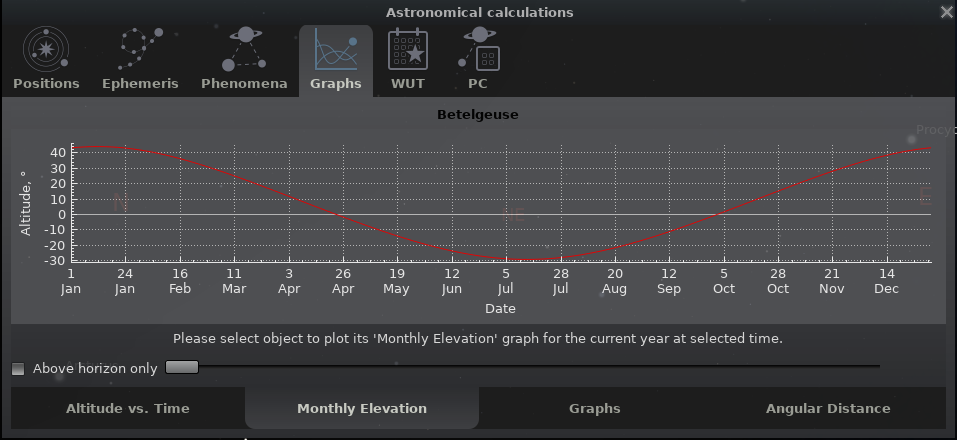
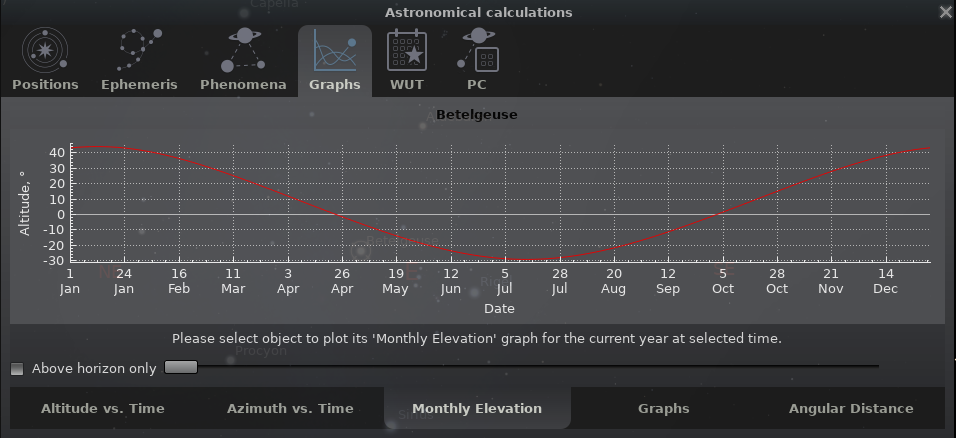
Updated Stellarium User Guide

diff --git a/guide/ch_interface.tex b/guide/ch_interface.tex
@@ -909,7 +909,7 @@ Two columns in the table \newFeature{v0.18.2/.3} may be helpful for planning obs
 \subsection{The Graphs Tab}
 \label{sec:gui:AstroCalc:Graphs}
 
-This tab \newFeature{v0.18.3} provides sub-tabs with graphs helpful for monthly observation planning of deep-sky objects.
+This tab in version 0.18.3 \newFeature{v0.18.3} provides graph, who helpful for monthly observation planning of deep-sky objects. Since version 0.19.0 this tab provides sub-tabs with graphs helpful for observation planning and analyze of changes between objects or changes for their positions.
 
 \subsubsection{The ``Altitude vs.\ Time'' Subtab}
 \label{sec:gui:AstroCalc:Graphs:AltVsTime}
@@ -924,6 +924,19 @@ on the currently set date and draw it as a graph (Fig.~\ref{fig:gui:AstroCalc:Gr
 \end{figure}
 
 Optional graphs for the Sun (with lines for civil, nautical and astronomical twilight) and the Moon (dashed) are also available.
+
+\newpage 
+\subsubsection{The ``Azimuth vs.\ Time'' Subtab}
+\label{sec:gui:AstroCalc:Graphs:AziVsTime}
+  
+On this subtab \newFeature{v0.19.1} you can compute the geometrical azimuth of the currently selected object 
+on the currently set date and draw it as a graph (Fig.~\ref{fig:gui:AstroCalc:Graphs:AziVsTime}).
+    
+\begin{figure}[htbp]
+\centering\includegraphics[width=0.75\textwidth]{astrocalc_dialog_graphs_tab_azivstime.png}
+\caption{Astronomical Calculations (AstroCalc): Graphs / Azimuth vs.\ Time}
+\label{fig:gui:AstroCalc:Graphs:AziVsTime}
+\end{figure}
 
 \subsubsection{The ``Monthly Elevation'' Subtab}
 \label{sec:gui:AstroCalc:Graphs:ME}
